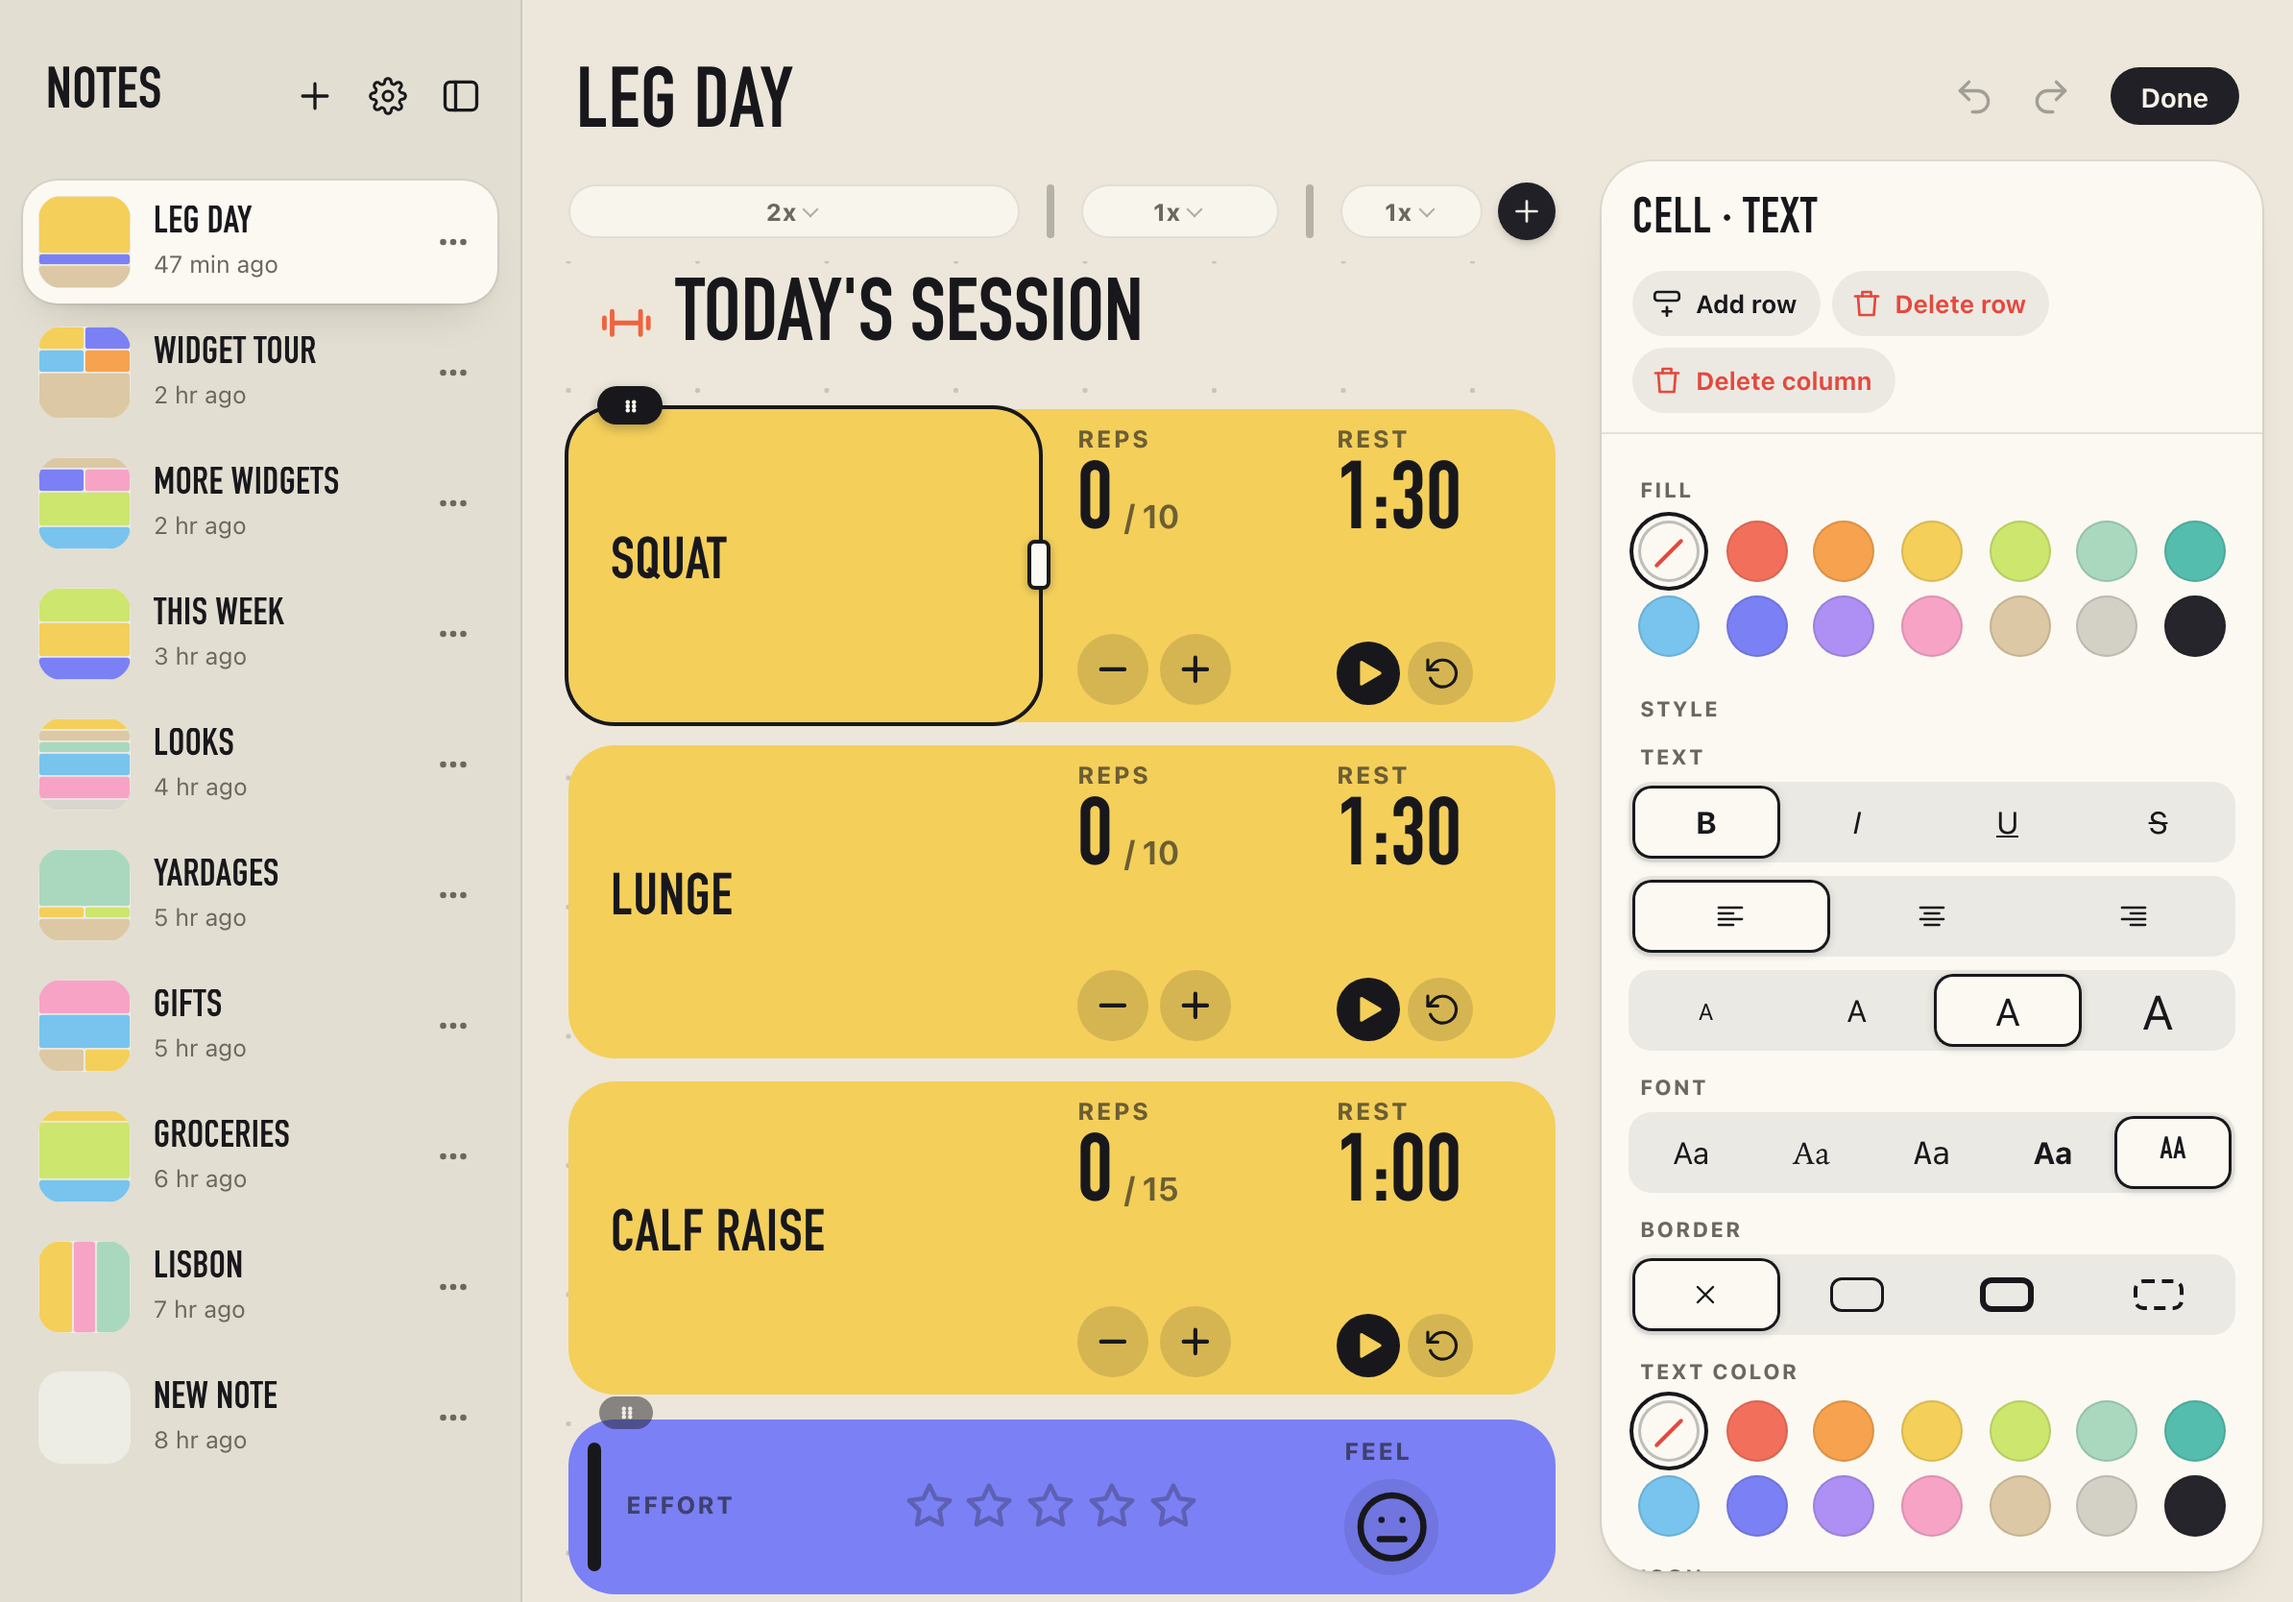
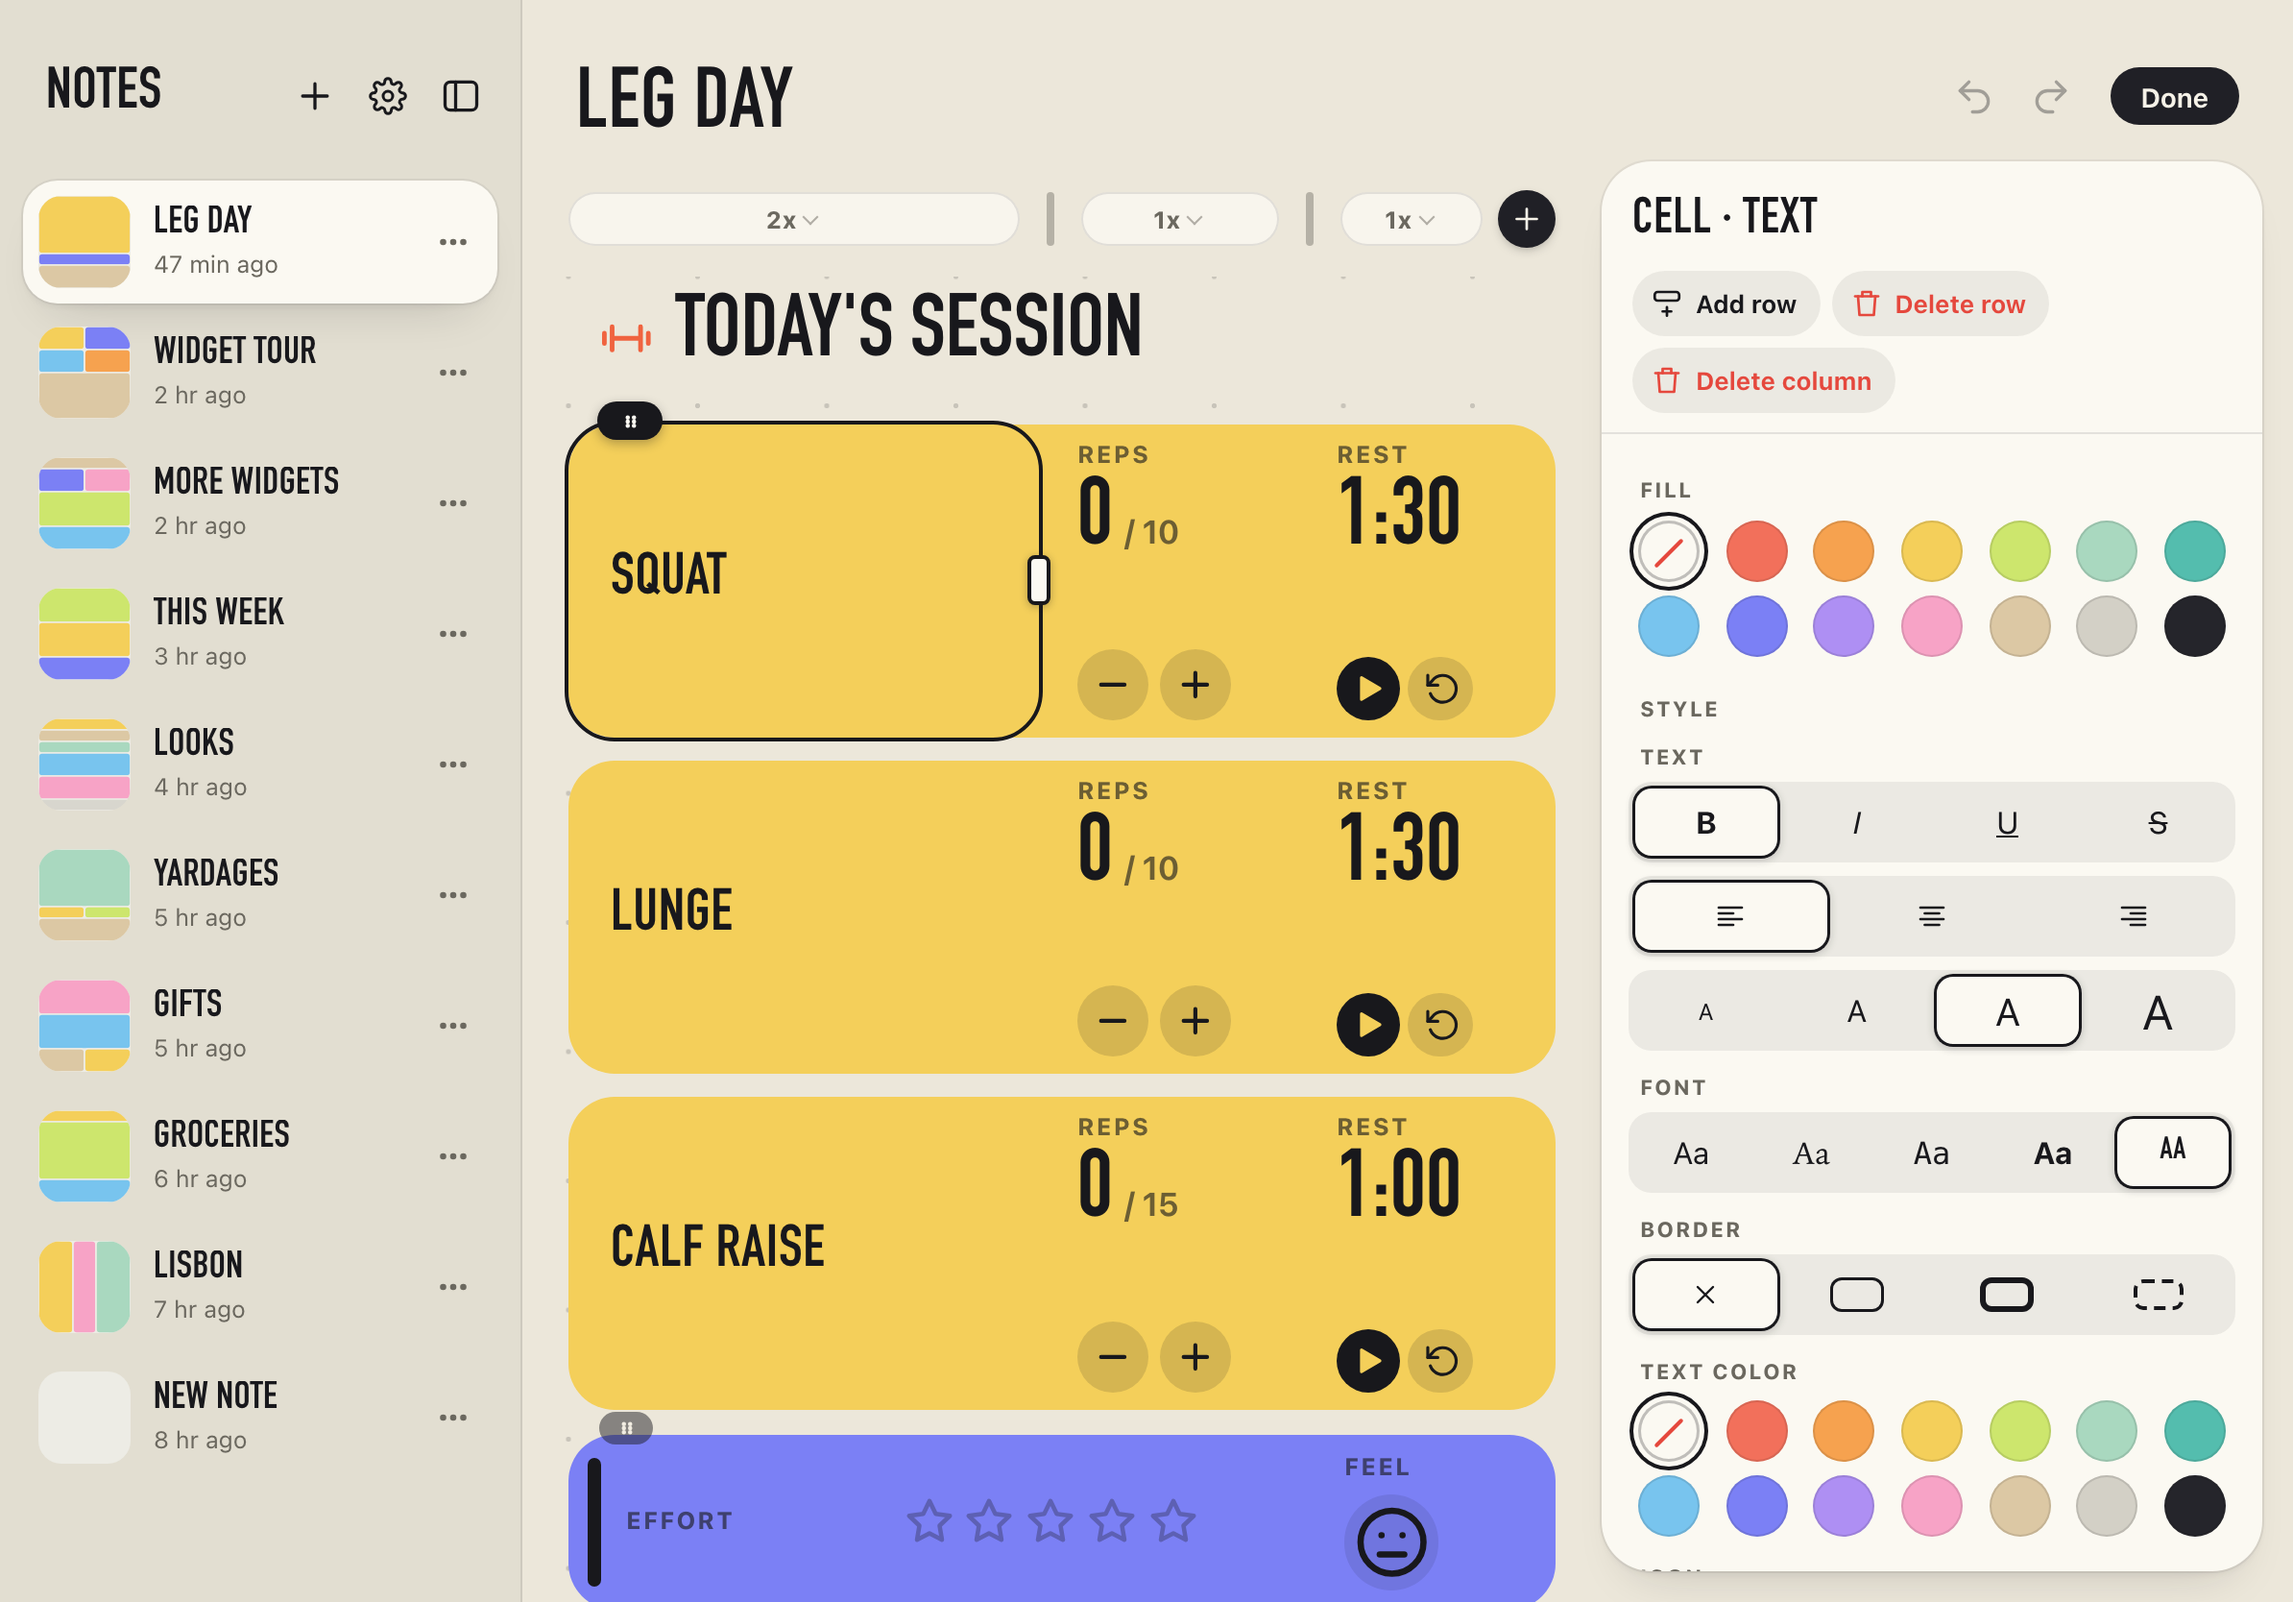
Fixed handle position

diff --git a/src/styles.css b/src/styles.css
@@ -45,7 +45,7 @@
   --dock-gap: 12px;
   --dock-zone: calc(var(--dock-h) + var(--dock-gap) * 2 + env(safe-area-inset-bottom));
   --topbar-h: 54px;
-  --ruler-h: 52px;
+  --ruler-h: 60px;
   --tab-h: 28px;
   --card-shadow: 0 0 0 1px rgba(24, 24, 28, 0.06), 0 2px 3px rgba(24, 24, 28, 0.04), 0 14px 26px -16px rgba(24, 24, 28, 0.22);
   --tile-shadow: 0 0 0 1px rgba(24, 24, 28, 0.06), 0 8px 14px -10px rgba(24, 24, 28, 0.28);
@@ -753,7 +753,7 @@ button:disabled { opacity: 0.35; cursor: default; }
 
 /* Landscape phones: every pixel of height is a row of cells, so the chrome shrinks. */
 @media (max-height: 520px) {
-  :root { --topbar-h: 40px; --ruler-h: 36px; --tab-h: 24px; --dock-h: 48px; --dock-gap: 8px; }
+  :root { --topbar-h: 40px; --ruler-h: 50px; --tab-h: 24px; --dock-h: 48px; --dock-gap: 8px; }
   .topbar { padding-top: 2px; }
   .topbar h1, .title-input { font-size: 26px; }
   .dock .tool { height: 42px; }
@@ -1064,8 +1064,7 @@ button:disabled { opacity: 0.35; cursor: default; }
 .app[data-wide='true'] .topbar { height: 84px; padding: 28px 28px 12px; }
 .shell .side-head { height: 84px; padding: 28px 12px 12px 24px; }
 
-/* A group at the top of the page keeps its grip inside its corner, clear of the column controls. */
-.gframe[data-top='true'] .handle[data-kind='grip'], .sel[data-top='true'] .handle[data-kind='grip'] { top: 6px; left: 8px; }
+/* The band above the first row is tall enough that a group's grip, which sits across its top edge, stays clear of the column controls. */
 
 /* A dimmed backdrop behind sheets and menus, below the dock so the tools stay bright */
 .pop-scrim { position: fixed; inset: 0; z-index: 15; pointer-events: none; background: rgba(24, 24, 28, 0.32); animation: fade 0.18s ease; }

diff --git a/e2e/round6.spec.ts b/e2e/round6.spec.ts
@@ -58,13 +58,19 @@ test.describe('popups dim the app', () => {
 })
 
 test.describe('the first group’s grip', () => {
-  test('stays clear of the column controls', async ({ page }) => {
-    await open(page, 'title: G\ncolumns: [1fr, 1fr]\ngroups:\n  - at: [0, 0]\n    rows:\n      - [a, b]\n')
+  test('sits across its top edge like every other group’s, clear of the column controls', async ({ page }) => {
+    await open(page, 'title: G\ncolumns: [1fr, 1fr]\ngroups:\n  - at: [0, 0]\n    rows:\n      - [a, b]\n  - at: [0, 2]\n    rows:\n      - [c, d]\n')
     await edit(page)
     await settled(page)
-    const grip = (await tid(page, 'group-grip-0').locator('.pill').boundingBox())!
-    const ruler = (await tid(page, 'ruler').boundingBox())!
-    expect(grip.y).toBeGreaterThanOrEqual(ruler.y + ruler.height - 1)
+    const pill = async (i: number) => (await tid(page, `group-grip-${i}`).locator('.pill').boundingBox())!
+    const top = async (id: string) => (await tid(page, id).boundingBox())!.y
+    const first = await pill(0)
+    const other = await pill(1)
+    // the same place relative to the group's top edge as a group lower down
+    expect(Math.abs(first.y - (await top('cell-0-0')) - (other.y - (await top('cell-0-2'))))).toBeLessThan(1.5)
+    // and not on top of the column chips
+    const tab = (await tid(page, 'col-tab-0').boundingBox())!
+    expect(first.y).toBeGreaterThanOrEqual(tab.y + tab.height)
   })
 })
 
